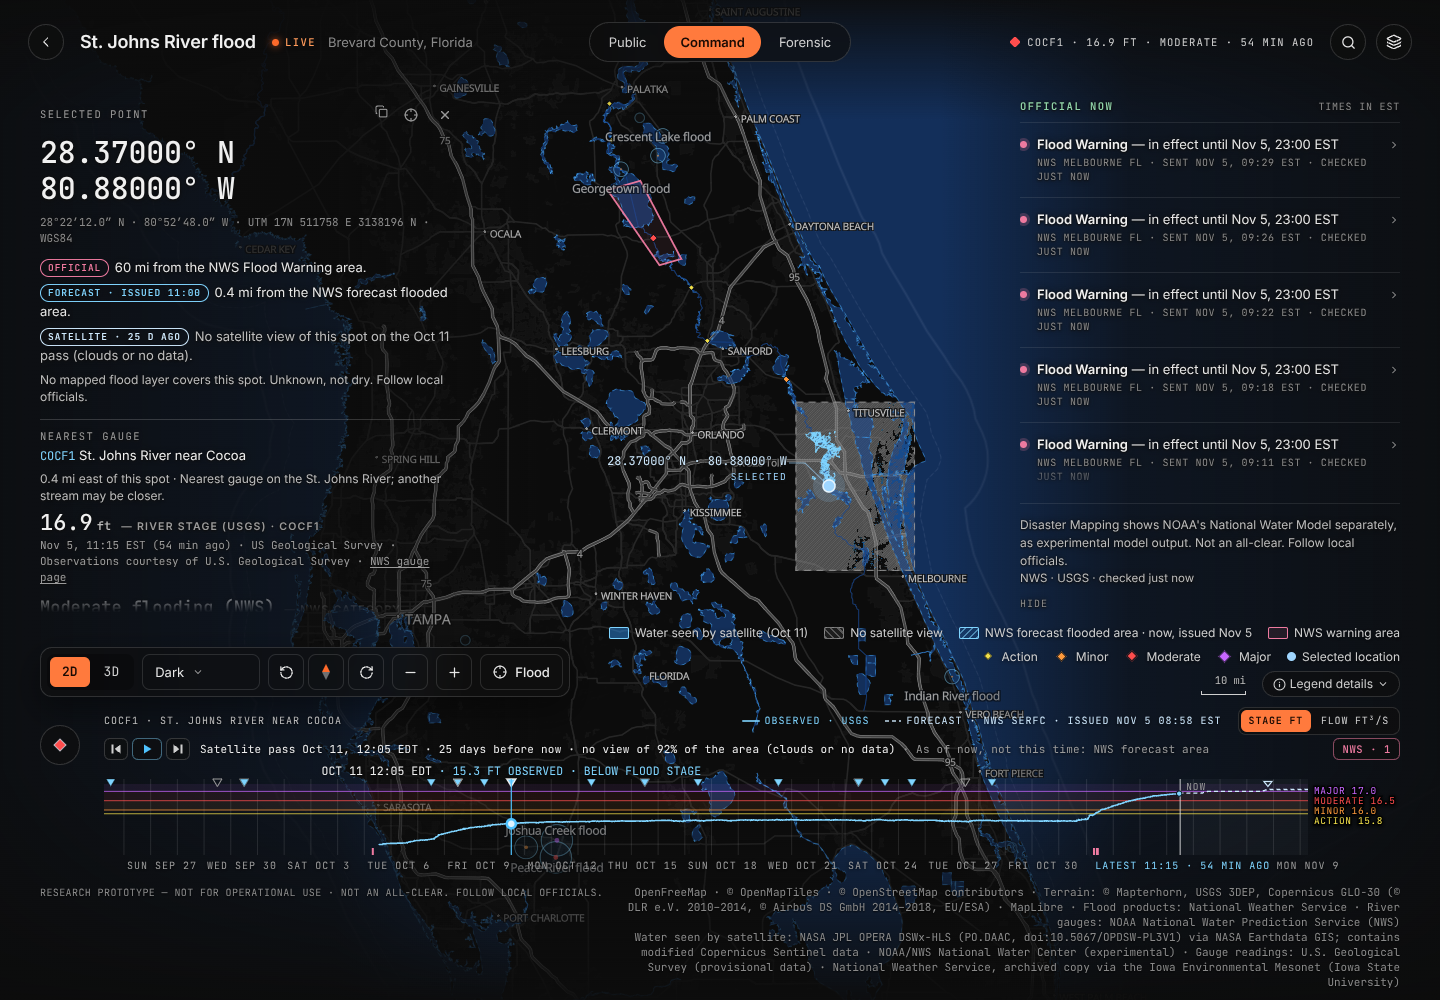
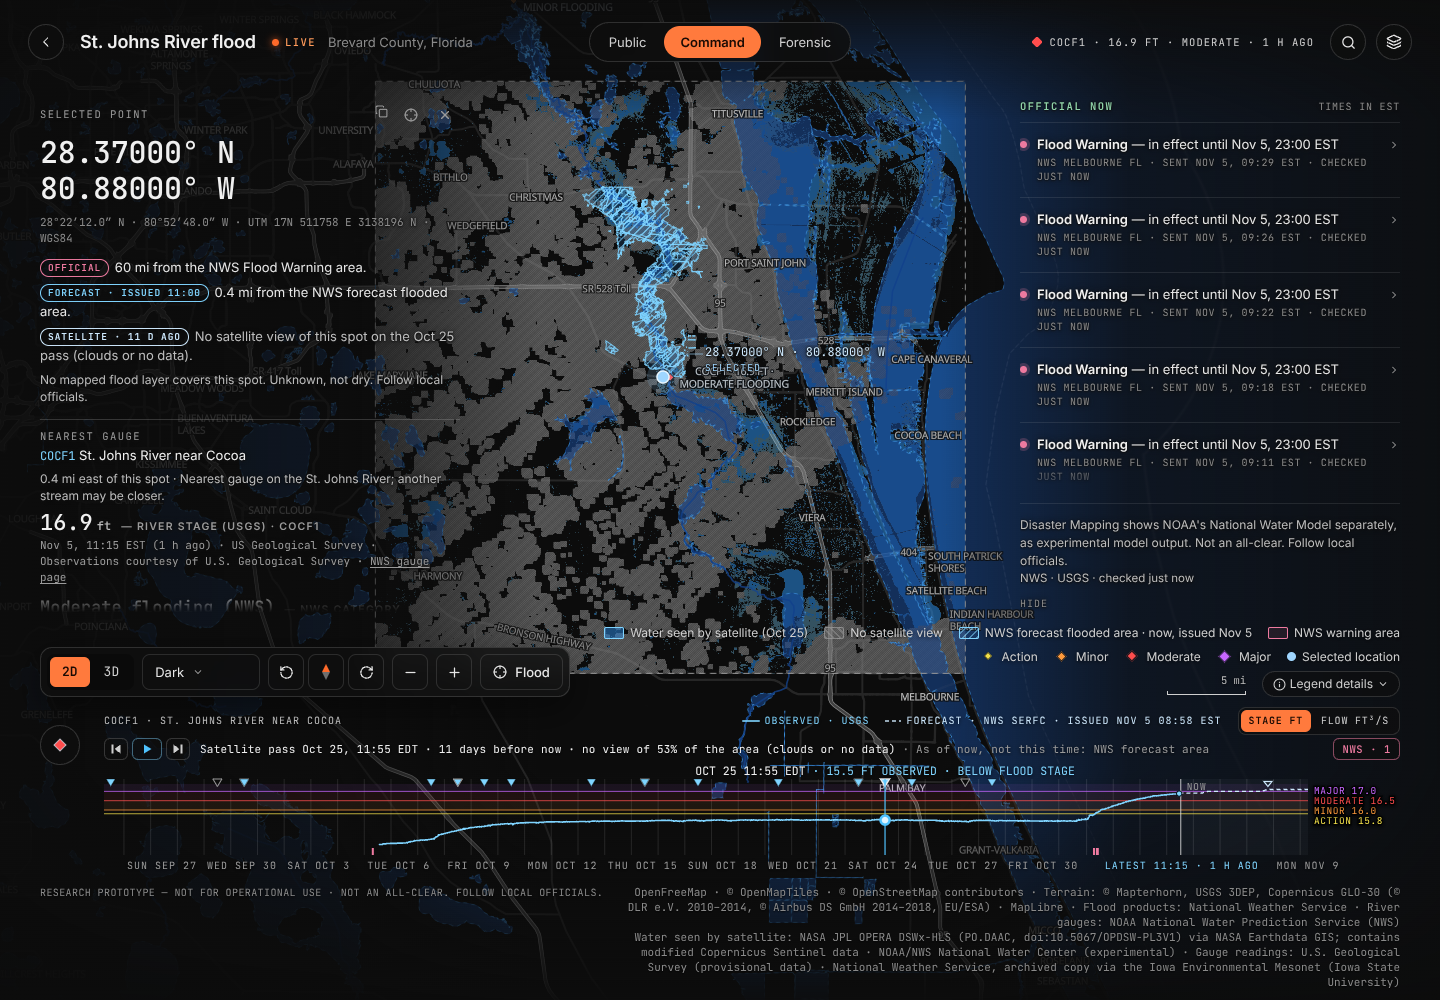
brief 6 final check: M1 final screenshot set (33), README flood time steps and 3D flood view text and pictures, demo-flood commands run flood_3d.py, as-built note, CONTRACT 17 pointer
Claude-Session: https://claude.ai/code/session_016JQLLLPiy3zrdDeXcY1uZS

diff --git a/README.md b/README.md
@@ -41,21 +41,39 @@ It is a **research prototype, not for operational use**. It was called **Fire-3d
 
 Taken on November 5, 2026.
 
-![The national map in Fires mode as it opens: the floating top bar with the Fires | Floods switch and the Public · Command · Forensic switch, today's date and the number of active fires, the "Check an address" search pill with the locate-me button, every listed fire of the lower 48 as an outlined orange circle (groups read "28 FIRES"), the largest fires named, the map controls and the "Show details" pill](docs/screenshots/brief6-rename-docs-readme-public-overview-fires.png)
+![The national map in Fires mode as it opens: the floating top bar with the Disaster Mapping logo and name, the Fires | Floods switch and the Public · Command · Forensic switch, today's date and the number of active fires, the "Check an address" search pill with the locate-me button, every listed fire of the lower 48 as an outlined orange circle (groups read "28 FIRES"), the largest fires named, the map controls and the "Show details" pill](docs/screenshots/brief6-final-public-overview-fires.png)
 
 | Floods on the national map | A fire in the Public view |
 |---|---|
-| ![The national map in Floods mode: each flood as a blue ring with a dot coloured by its flood category, the larger floods named with their category and river stage ("Devils Lake flood · MAJOR · 49.9 FT", "Grand River flood · MODERATE · 30.0 FT"), groups ("3 FLOODS") and the line "Only floods with an NWS flood product or a river gauge at flood stage are listed. A place with no marker is not an all-clear."](docs/screenshots/brief6-rename-docs-readme-public-overview-floods.png) | ![The Public view of the 2025 Lower Sugarloaf Fire: the place and dates, the "share your location" chip, a round hazard circle with "WILDFIRE · DECLARED OUT" and the fire's name, the newest agency perimeter on the map, and the official facts as "value — LABEL" rows with their sources and times](docs/screenshots/brief6-rename-docs-readme-public-fire-lower-sugarloaf.png) |
+| ![The national map in Floods mode: each flood as a blue ring with a dot coloured by its flood category, the larger floods named with their category and river stage ("Devils Lake flood · MAJOR · 49.9 FT", "Grand River flood · MODERATE · 30.2 FT"), groups ("3 FLOODS") and the line "Only floods with an NWS flood product or a river gauge at flood stage are listed. A place with no marker is not an all-clear."](docs/screenshots/brief6-final-public-overview-floods.png) | ![The Public view of the 2025 Lower Sugarloaf Fire: the place and dates, the "share your location" chip, a round hazard circle with "WILDFIRE · DECLARED OUT" and the fire's name, the newest agency perimeter on the map, and the official facts as "value — LABEL" rows with their sources and times](docs/screenshots/brief6-rename-docs-readme-public-fire-lower-sugarloaf.png) |
 
 | A flood in the Public view | A flood in Command |
 |---|---|
-| ![The Public view of the synthetic demo flood (marked DEMO): the water circle with "SIMULATED FLOOD · DEMO", seven facts with their issuer and time (the NWS forecast flooded area, the river stage measured by USGS, the NWS forecast crest, the warning in effect), and the map with the NWS warning areas in pink, the NWS forecast flooded area hatched, water seen by satellite in blue with grey "no view" patches and the main gauge as a red diamond](docs/screenshots/brief6-rename-docs-readme-public-flood-fixture.png) | ![Command for a real flood (Peace River, Florida): the selected point's readout on the left, "Official now" on the right with each NWS product, the river forecast, evacuations and local officials' messages, and the river-level chart along the bottom with the measured line, the dashed NWS forecast, the flood-stage lines and the forecast crest](docs/screenshots/brief6-rename-docs-readme-command-flood-real.png) |
+| ![The Public view of the Calcasieu River flood in Louisiana: the water circle with "FLOOD · WARNING", the facts with their issuer and time (the NWS forecast flooded area, no river gauge in this flood, the warning in effect until Nov 6, evacuations not available in this state), and the map with the NWS warning area in pink, the NWS forecast flooded area hatched, water seen by satellite in blue with grey "no view" patches and the main channel](docs/screenshots/brief6-final-public-flood.png) | ![Command for the St. Johns River flood in Florida at a past time step: the selected point's readout on the left, "Official now" on the right with each NWS Flood Warning, and along the bottom the river-level chart with the satellite passes as small triangles, the Play and step buttons and the step "Satellite pass Oct 25, 11:55 EDT · 11 days before now · no view of 53% of the area"; the map shows that pass's own image](docs/screenshots/brief6-final-command-playback-stjohns.png) |
+
+**Flood time steps.** Play and the step buttons move through a flood's satellite passes and NWS warning changes
+(here the Calcasieu River flood, which has no river gauge, so the chart is only the row of controls):
+
+| A satellite pass (Oct 25) | An NWS warning step (Nov 4) |
+|---|---|
+| ![Command for the Calcasieu River flood at the step "Satellite pass Oct 25, 11:44 CDT · 11 days before now": the map shows the Oct 25 image (legend "Water seen by satellite (Oct 25)"), no NWS warning area yet, and the note "As of now, not this time: NWS forecast area"](docs/screenshots/brief6-final-command-playback-pass1.png) | ![The same flood at the step "NWS Flood Warning issued Nov 4, 16:30 CST": the NWS warning area in pink, the row "Shown: satellite image of Oct 29, 11:54 CDT (6 days before the handle) · No satellite image after Oct 29 yet", and the "NWS products on the map at this time" list with the issuer (NWS Lake Charles LA), its own issue and end times, NWS's headline word for word, the "Archived copy (Iowa Environmental Mesonet)" tag and a link](docs/screenshots/brief6-final-command-playback-warning.png) |
 
 | A fire in Command | Forensic: a fire in 3D |
 |---|---|
-| ![Command in the synthetic fixture-live fire: the selected point's readout on the left (coordinates, inside the mapped fire area, the model line, official information), "Official now" as one-line rows on the right, the observed fire and the modeled spread labelled on the map, the controls bar and the slim timeline](docs/screenshots/brief6-rename-docs-readme-command-fire-fixture-live.png) | ![Forensic on the fixture-live fire: green 3D terrain with lines of equal arrival time and telemetry labels, the compass with turn buttons, the layer panel, the weather card and the timeline dock](docs/screenshots/brief6-rename-docs-readme-forensic-fixture-live.png) |
+| ![Command in the synthetic fixture-live fire: the selected point's readout on the left (coordinates, inside the mapped fire area, the model line, official information), "Official now" as one-line rows on the right, the observed fire and the modeled spread labelled on the map, the controls bar and the slim timeline](docs/screenshots/brief6-final-command-fire.png) | ![Forensic on the fixture-live fire: green 3D terrain with lines of equal arrival time and telemetry labels, the compass with turn buttons, the layer panel, the weather card and the timeline dock](docs/screenshots/brief6-final-forensic-fire.png) |
 
-![Forensic for the synthetic demo flood: the flood's layers draped on 3D terrain (water seen by satellite in blue, the NWS forecast flooded area hatched, NWS warning areas in pink), the river gauges as bars, the "In this 3D view" key, the layer panel with each layer's own date and the river-level chart in the dock](docs/screenshots/brief6-rename-docs-readme-forensic-flood-fixture.png)
+**The 3D flood view on a flat real flood (Calcasieu River, Louisiana).** Before: the whole area at the old height
+(×1.5), where the flood looks like a flat painting. After: how it now opens, in the river view with the automatic height
+boost (×10 here) and the estimated depth tint inside the water the satellite saw. Flat land still looks fairly flat,
+and the key says so ("Still flat at ×10: raise it, or use River view.").
+
+| Before | After |
+|---|---|
+| ![Forensic for the Calcasieu River flood framed as a whole at height ×1.5 with no depth surface: the terrain looks flat and the water layers, the grey "no view" hatching and the pink NWS warning area lie on it like paint](docs/screenshots/brief6-final-forensic-3d-before-calcasieu.png) | ![The same flood as it now opens: a lower, closer view along the Calcasieu River, "Height ×10 · auto" in the view dock, the key "Height ×10: heights drawn 10 times taller, distances true" and "Still flat at ×10: raise it, or use River view.", and inside the water seen by satellite on Oct 29 a see-through surface tinted by the estimated depth](docs/screenshots/brief6-final-forensic-3d-after-calcasieu.png) |
+
+| Height above the river (on) | Time steps in 3D (demo flood) |
+|---|---|
+| ![The Calcasieu River flood with Layers → From the terrain → Height above the river turned on: on this flat coastal plain almost all land is tinted violet (0–1, 1–2 and 2–5 m above the nearest river channel), and the key reads "Height above the river (from terrain). Not a flood map"](docs/screenshots/brief6-final-forensic-3d-low-ground-calcasieu.png) | ![Forensic for the synthetic demo flood at the step "NWS Flood Warning issued Nov 4": the water draped on 3D terrain with its depth tint (deeper is darker blue), the NWS warning lines in pink, the key with "Height ×3", and the dock's "NWS products on the map at this time" list](docs/screenshots/brief6-final-forensic-playback-warning-fixture.png) |
 
 ## A few words explained
 
@@ -859,6 +877,19 @@ multiplier schedule, the share of the perimeter held and the live fuel moisture 
   on) and Forensic.
 - **3D data is for current floods only.** NWS's forecast maps, the model and river forecasts are not kept for a past
   flood's dates. A gauge bar's height is the river stage at the gauge (scaled), not water depth.
+- **Time steps show only what was seen.** A satellite passes every few days, and NASA lists a pass 2 to 4 days after
+  it, so the newest days of a flood often have no image yet ("No satellite image after Oct 29 yet"). Nothing is drawn
+  or guessed between two passes. At a past step the NWS forecast flooded area, FEMA, NWS category maps and the model
+  still show *now* (tagged "now"), "Official now" lists what is in effect now, and the selected spot's lines in the
+  left panel can still name the pass of now. At now, the map shows the pass the satellite layer picked, which can be
+  older than the newest pass in the time steps (the 3D key says "Newer satellite passes exist").
+- **The 3D estimates are rough.** The estimated depth reads a little low near gentle banks and can be off by a metre or
+  more where banks are steep or the water map and the terrain do not line up; the river's normal channel reads near
+  0 m, because the terrain shows the water's surface, not the river bed. It exists only for the satellite pass the
+  3D data was prepared with, each kept pass, and NWS's forecast area. Height above the river uses the nearest channel
+  in a straight line, not the downhill path, and is blank more than 10 km from a mapped channel; on a wide flat plain
+  it tints almost everything. Some flat floods still look flat at ×10 (the key says so; pick ×15 or ×20, or River
+  view). A shallow estimate, an untinted area or a dry pixel is never an all-clear.
 - **One event can be listed twice.** Near Copperhill, Tennessee, the Ocoee River gauge flood and the Ducktown flash
   flood are one event listed as two floods (joining them would replace the flash flood's facts with the river's).
 - **Bundles keep the wording of when they were prepared.** A flood prepared before the rename (November 5, 2026) may
@@ -1009,7 +1040,7 @@ account), USGS NHD services (time out) and NOAA HEFS (experimental API).
 | [docs/redesign/PLAN-2.md](docs/redesign/PLAN-2.md) to [PLAN-5.md](docs/redesign/PLAN-5.md), [PLAN.md](PLAN.md) | how each brief was planned (PLAN-5 has the flood design and its safety wording) |
 | [docs/redesign/handoff-4/HANDOFF.md](docs/redesign/handoff-4/HANDOFF.md) | the brief-4 design handoff (screens, colours, type) |
 | [docs/redesign/reports/](docs/redesign/reports/) | what each build agent did, with its known issues (final checks: `final-verification-*.json`) |
-| [docs/redesign/contract3/](docs/redesign/contract3/), [contract5/](docs/redesign/contract5/), contract6/ | each role's as-built notes per brief |
+| [docs/redesign/contract3/](docs/redesign/contract3/), [contract5/](docs/redesign/contract5/), [contract6/](docs/redesign/contract6/) | each role's as-built notes per brief (contract6: the time steps, the 3D flood view, the rename and the final check) |
 | [docs/redesign/progress/](docs/redesign/progress/), [audit-*](docs/redesign/) | progress notes and audits written during the builds |
 | [docs/cloud/SETUP.md](docs/cloud/SETUP.md) | running a build in a Claude Code cloud session |
 | [docs/dev/module-reports.md](docs/dev/module-reports.md) | build notes of the first version |

diff --git a/docs/redesign/contract6/final-check.md b/docs/redesign/contract6/final-check.md
@@ -1,0 +1,41 @@
+# Brief 6 · final-check · as built
+
+The last step of brief 6 (BRIEF-6 role table, order 3): gates, the final screenshot set, a scratch Playwright smoke
+run, count-only scans, the README's flood text and pictures, and the report
+`docs/redesign/reports/final-verification-6.json` (with the plain-words user summary). No app code was changed.
+
+## What changed in the repository
+
+| File | Change |
+|---|---|
+| `README.md` | Screenshots section re-shot with `brief6-final-*.png` (overviews, Public and Command flood, Command fire, Forensic fire, a "Flood time steps" pair and a 3D before / after pair on the real Calcasieu River flood, height above the river, time steps in 3D); new "Flood time steps (Command and Forensic)" paragraph; the Forensic flood paragraph now lists River view, Height boost, Estimated depth and Height above the river with their on-screen labels; the Keyboard line names Space, comma and full stop for floods; four new rows in "A few words explained" (Satellite pass, Height boost, Estimated depth, Height above the river); the experimental column of the "official / measured / experimental" table names the 3D estimates; two new Known limits → Floods items (time steps show only what was seen; the 3D estimates are rough); the demo-flood commands add `scripts/flood_3d.py fixture-flood` after `make_fixture.py --only flood` (without it the demo has one pass and no 3D terrain products); the docs map links `contract6/`. |
+| `docs/screenshots/brief6-final-*.png` | 33 final screenshots (list in the report). |
+| `docs/redesign/CONTRACT.md` | §17: a "Final check" pointer to this note. |
+| `docs/redesign/progress/brief6-final-check.md`, `docs/redesign/reports/final-verification-6.json`, this note | the step's record. |
+
+## Screenshot recipes (for a later re-shoot)
+
+Run from `web/` with `node scripts/shot.mjs <url> <out> --backend swiftshader --w 1440 --h 1000` and:
+
+- a flood step in Command or Forensic: `--reduced-motion --eval-after-wait "<js>"`, where the JS clicks
+  `.hg-play-btn.is-play` once (reduced motion: one step per press, the first step) and then
+  `[aria-label="Next time step"]` until `.hg-step-label` matches, e.g. `/Satellite pass Oct 25/` or `/NWS/`; the
+  "NWS · n" list opens with `.hg-nws-btn`;
+- the 3D "before" look: `--eval-after-wait "const f=window.__forensicFlood.getState(); f.setBoost('<id>',1.5);
+  f.setLayerVisible('depth',false); window.__sceneStore.getState().issueCameraCommand('frame-fire')"` (brief 5's height
+  and framing, no depth surface); "after" is the default open; height above the river:
+  `window.__forensicFlood.getState().setLayerVisible('hand',true)`; Forensic needs `--quality low --shot-timeout 240000`
+  and `--wait 45000` under SwiftShader;
+- zoom dimming on: `--eval-after-wait "window.__workspace.getState().setZoomDimming(true)"`; the switch:
+  `setPanel('layers', true)`, then scroll the label "Zoom dimming" into view.
+
+## Smoke checks (scratch script, not in the repository)
+
+`smoke6.mjs` in the session scratchpad: Chrome + SwiftShader against API 8767 / Vite 5227 (FIRE3D_LIVE=0, real network
+for the live lists and the time history). Parts: `copy` (18 views: no old name seen or heard, the name in the bar where
+the bar has a brand and in the page title, both fixed lines visible, no banned safety word outside `data-verbatim`
+text, no console error), `playback` (Command, Calcasieu River: buttons and group name, no autoplay, Play runs and Pause
+stops, Play stops at the latest step, comma / full stop / Space, pass label, the legend follows the pass, the
+"Shown: …" gap words between passes, the "NWS · n" list, Public returns to now), `motion` (reduced motion in Command and
+the Forensic dock: no autoplay, one step per press, no timer, no running animation) and `dimming` (off by default, the
+switch in Layers & settings → Display, remembered across pages, off again).

diff --git a/docs/redesign/CONTRACT.md b/docs/redesign/CONTRACT.md
@@ -5155,3 +5155,7 @@ uses it, and keep `SPEC.md`, `backend/fire3d/contracts.py` and `web/src/api/floo
   the bundle, joined by `key`; a depth estimate is shown only inside its own mapped water, and a pass without one
   shows no depth surface (said so, never an empty one); official products keep their issuer, own times, verbatim text
   and link, and their absence is never an all-clear.
+- **Final check (final-check):** `docs/redesign/contract6/final-check.md`: no interface changed. The README's flood
+  paragraphs now describe the time steps and the 3D flood view with their on-screen labels, and its demo-flood commands
+  run `scripts/flood_3d.py fixture-flood` after `make_fixture.py --only flood`. Report:
+  `docs/redesign/reports/final-verification-6.json`.

diff --git a/docs/redesign/progress/brief6-final-check.md b/docs/redesign/progress/brief6-final-check.md
@@ -5,7 +5,8 @@ Role: final-check. Ports: API 8767, Vite 5227 (fixture server, if needed: 8768).
 ## Steps
 
 - [x] 1. Working tree clean at 3265d56 (nothing of the build uncommitted).
-- [ ] 2. Full gates (backend pytest, web typecheck, lint 55, tests, build).
+- [x] 2. Full gates at 3265d56: backend 1466 passed, 0 skipped; web typecheck ok, lint 55 warnings (all src/scene),
+      151 files 1917 passed + 2 skipped, build ok.
 - [ ] 3. Final screenshots docs/screenshots/brief6-final-*.png, each viewed.
 - [ ] 4. Scratch Playwright smoke (name, playback, reduced motion, dimming, fixed lines, console).
 - [ ] 5. Count-only scans (secrets since 8ae4614, FireTrace, safe / low risk).
